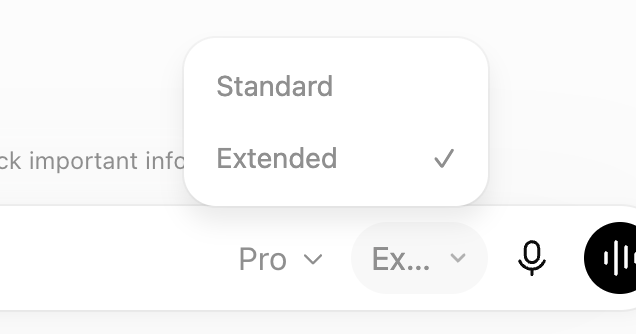
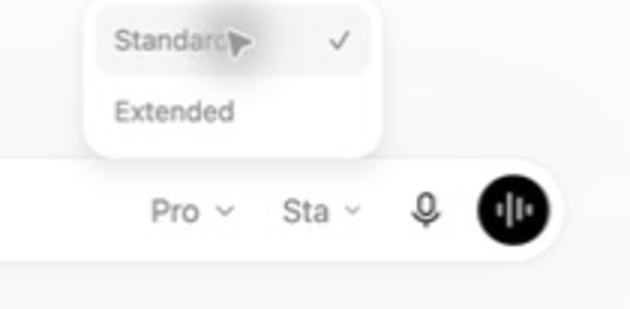
Polish compact effort selector states

diff --git a/content/shadow-ui.js b/content/shadow-ui.js
@@ -13,10 +13,6 @@
         --pe-native-foreground,
         CanvasText
       );
-      --pe-control-background: var(
-        --pe-native-control-background,
-        transparent
-      );
       direction: var(
         --pe-native-direction,
         ltr
@@ -53,11 +49,7 @@
       padding: 6px 10px;
       border: 0;
       border-radius: 999px;
-      background: color-mix(
-        in srgb,
-        var(--pe-control-background) 94%,
-        var(--pe-foreground) 6%
-      );
+      background: transparent;
       color: var(--pe-foreground);
       font-family: var(--pe-font-family);
       font-size: 16px;
@@ -81,8 +73,8 @@
     .pe-trigger:hover {
       background: color-mix(
         in srgb,
-        var(--pe-control-background) 90%,
-        var(--pe-foreground) 10%
+        var(--pe-foreground) 10%,
+        transparent
       );
     }
 
@@ -93,9 +85,10 @@
 
     .pe-trigger-label {
       display: block;
+      flex: 0 0 auto;
       min-width: 0;
-      overflow: hidden;
-      text-overflow: ellipsis;
+      overflow: visible;
+      text-overflow: clip;
       white-space: nowrap;
     }
 

diff --git a/content/content-script.js b/content/content-script.js
@@ -1360,9 +1360,11 @@
       displayedPreference === EXTENDED
         ? "Extended"
         : "Standard";
+    const compactPreferenceLabel =
+      preferenceLabel.slice(0, 3);
 
     triggerLabel.textContent =
-      preferenceLabel;
+      compactPreferenceLabel;
     trigger.dataset.preference =
       displayedPreference;
     trigger.setAttribute(

diff --git a/docs/manual-qa.md b/docs/manual-qa.md
@@ -20,8 +20,8 @@ Use a unique marker in every test prompt. When checking backend metadata, keep D
 2. Test in dark mode.
 3. Confirm Pro and the effort selector remain in one horizontal composer-control row.
 4. Confirm the selector never stacks underneath Pro or overlaps the mic, voice, or send controls.
-5. Confirm the closed selector clearly shows Standard or Extended with a compact menu chevron.
-6. Confirm the selector is a soft, borderless 36 px composer pill using the nearby model control's font, foreground, and background tokens where available.
+5. Confirm the closed selector clearly shows Sta or Ext with a compact menu chevron.
+6. Confirm the selector is a borderless 36 px composer control that is transparent at rest, uses the nearby model control's font and foreground tokens where available, and shows a restrained background only while hovered.
 7. Confirm the open picker is approximately 152 px wide with a 16 px radius and exactly two 36 px single-line choice rows: Standard and Extended.
 8. Confirm selection is communicated by the right-side checkmark, with no persistent selected-row fill and only a restrained hover surface.
 9. Confirm the picker never adds a heading, descriptions, status text, verification controls, or a wider operational section.
